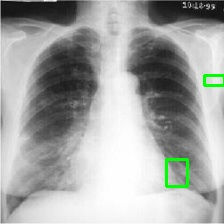
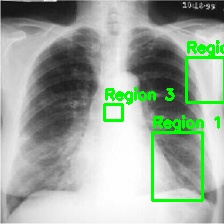
Files Removed and updated and Project Closed

Changed region(s): [[0.6562, 0.5, 1.0, 0.9062], [0.8125, 0.1562, 1.0, 0.4688], [0.4375, 0.375, 0.7812, 0.5625]]

diff --git a/WEB/app.py b/WEB/app.py
@@ -1,8 +1,6 @@
 import os
 import numpy as np
 import cv2
-from flask import Flask, render_template, request, redirect, url_for
-from werkzeug.utils import secure_filename
 import torch
 import torch.nn as nn
 from torchvision import transforms, models
@@ -10,20 +8,15 @@ from PIL import Image
 from pytorch_grad_cam import GradCAMPlusPlus
 from pytorch_grad_cam.utils.model_targets import ClassifierOutputTarget
 from pytorch_grad_cam.utils.image import show_cam_on_image
+from scipy.ndimage import gaussian_filter
+import gradio as gr
 
-UPLOAD_FOLDER = "static/uploads"
-GRADCAM_FOLDER = "static/gradcam"
-ALLOWED_EXTENSIONS = {"png", "jpg", "jpeg"}
-
-app = Flask(__name__)
-app.config['UPLOAD_FOLDER'] = UPLOAD_FOLDER
-os.makedirs(UPLOAD_FOLDER, exist_ok=True)
-os.makedirs(GRADCAM_FOLDER, exist_ok=True)
-
+# ==== CONFIG ====
 DEVICE = torch.device("cuda" if torch.cuda.is_available() else "cpu")
-MODEL_PATH = "Pneumo_model.pth"
+MODEL_PATH = "Pneumo_model.pth"  # place this file in the same folder
 CLASS_NAMES = ["NORMAL", "PNEUMONIA"]
 
+# ==== IMAGE TRANSFORMS ====
 transform = transforms.Compose([
     transforms.Resize((224, 224)),
     transforms.ToTensor(),
@@ -31,20 +24,15 @@ transform = transforms.Compose([
                          [0.229, 0.224, 0.225])
 ])
 
-print("[INFO] Loading model...")
+# ==== LOAD MODEL ====
 model = models.efficientnet_b0(pretrained=False)
 model.classifier[1] = nn.Linear(model.classifier[1].in_features, len(CLASS_NAMES))
 model.load_state_dict(torch.load(MODEL_PATH, map_location=DEVICE))
 model = model.to(DEVICE)
 model.eval()
-print("[INFO] Model loaded successfully!")
 
-def allowed_file(filename):
-    return '.' in filename and filename.rsplit('.', 1)[1].lower() in ALLOWED_EXTENSIONS
-
-
-def predict_image(image_path):
-    image = Image.open(image_path).convert('RGB')
+# ==== HELPER FUNCTIONS ====
+def predict_image(image: Image.Image):
     input_tensor = transform(image).unsqueeze(0).to(DEVICE)
     with torch.no_grad():
         outputs = model(input_tensor)
@@ -52,91 +40,74 @@ def predict_image(image_path):
         predicted_idx = torch.argmax(probs, dim=1).item()
     return CLASS_NAMES[predicted_idx], probs[0][predicted_idx].item() * 100, predicted_idx
 
-def generate_heatmap_and_boxes(image_path, target_class):
-    # Load and preprocess
-    img = Image.open(image_path).convert('RGB')
-    img_resized = img.resize((224, 224))
-    img_array = np.array(img_resized).astype(np.float32) / 255.0
-    input_tensor = transform(img).unsqueeze(0).to(DEVICE)
+def get_lung_mask(img_gray):
+    _, thresh = cv2.threshold(img_gray, 10, 255, cv2.THRESH_BINARY)
+    contours, _ = cv2.findContours(thresh, cv2.RETR_EXTERNAL, cv2.CHAIN_APPROX_SIMPLE)
+    mask = np.zeros_like(img_gray)
+    if contours:
+        largest = max(contours, key=cv2.contourArea)
+        cv2.drawContours(mask, [largest], -1, 255, -1)
+    return mask
 
+def generate_heatmap_and_boxes(image: Image.Image, target_class):
+    img_resized = image.resize((224, 224))
+    img_array = np.array(img_resized).astype(np.float32) / 255.0
+    input_tensor = transform(image).unsqueeze(0).to(DEVICE)
+
+    # Grad-CAM++
     target_layer = model.features[6]
     cam = GradCAMPlusPlus(model=model, target_layers=[target_layer])
     targets = [ClassifierOutputTarget(target_class)]
     grayscale_cam = cam(input_tensor=input_tensor, targets=targets)[0]
+    grayscale_cam = gaussian_filter(grayscale_cam, sigma=2)
 
+    # Lung mask
+    img_gray = cv2.cvtColor(np.array(img_resized), cv2.COLOR_RGB2GRAY)
+    lung_mask = get_lung_mask(img_gray)
+    grayscale_cam = np.where(lung_mask > 0, grayscale_cam, 0)
+
+    # Heatmap
     heatmap = show_cam_on_image(img_array, grayscale_cam, use_rgb=True)
-    gradcam_path = os.path.join(GRADCAM_FOLDER, "gradcam_" + os.path.basename(image_path))
-    cv2.imwrite(gradcam_path, cv2.cvtColor((heatmap * 255).astype(np.uint8), cv2.COLOR_RGB2BGR))
 
-    cam_threshold = (grayscale_cam * 255).astype(np.uint8)
-    _, binary_mask = cv2.threshold(cam_threshold, 180, 255, cv2.THRESH_BINARY)
-
+    # Adaptive threshold for regions
+    cam_uint8 = (grayscale_cam * 255).astype(np.uint8)
+    _, binary_mask = cv2.threshold(cam_uint8, 0, 255, cv2.THRESH_BINARY + cv2.THRESH_OTSU)
     contours, _ = cv2.findContours(binary_mask, cv2.RETR_EXTERNAL, cv2.CHAIN_APPROX_SIMPLE)
     img_bgr = cv2.cvtColor(np.array(img_resized), cv2.COLOR_RGB2BGR)
 
-    region_count = 0
-    for contour in contours:
+    # Draw top 3 regions
+    contours = sorted(contours, key=cv2.contourArea, reverse=True)[:3]
+    for i, contour in enumerate(contours):
         area = cv2.contourArea(contour)
-        if area > 50:  # Ignore tiny noise
+        if area > 100:
             x, y, w, h = cv2.boundingRect(contour)
             cv2.rectangle(img_bgr, (x, y), (x + w, y + h), (0, 255, 0), 2)
-            region_count += 1
+            cv2.putText(img_bgr, f"Region {i+1}", (x, y-5),
+                        cv2.FONT_HERSHEY_SIMPLEX, 0.5, (0, 255, 0), 2)
 
-    print(f"[INFO] Detected {region_count} affected regions")
+    return heatmap, img_bgr
 
-    box_path = os.path.join(GRADCAM_FOLDER, "box_" + os.path.basename(image_path))
-    cv2.imwrite(box_path, img_bgr)
+# ==== GRADIO INTERFACE ====
+def process_image(image: Image.Image):
+    label, confidence, pred_idx = predict_image(image)
+    if label == "PNEUMONIA":
+        heatmap, box_image = generate_heatmap_and_boxes(image, pred_idx)
+        return label, f"{confidence:.2f}%", heatmap, box_image
+    else:
+        return label, f"{confidence:.2f}%", None, None
 
-    return gradcam_path, box_path
-
-@app.route("/", methods=["GET", "POST"])
-def index():
-    if request.method == "POST":
-        if "file" not in request.files:
-            return redirect(request.url)
-        file = request.files["file"]
-        if file.filename == "":
-            return redirect(request.url)
-
-        if file and allowed_file(file.filename):
-            filename = secure_filename(file.filename)
-            file_path = os.path.join(app.config['UPLOAD_FOLDER'], filename)
-            file.save(file_path)
-
-            label, confidence, pred_idx = predict_image(file_path)
-
-            gradcam_filename = None
-            box_filename = None
-
-            if label == "PNEUMONIA":
-                gradcam_path, box_path = generate_heatmap_and_boxes(file_path, target_class=pred_idx)
-                gradcam_filename = os.path.basename(gradcam_path)
-                box_filename = os.path.basename(box_path)
-
-            return redirect(url_for("result",
-                                    filename=filename,
-                                    label=label,
-                                    confidence=confidence,
-                                    gradcam=gradcam_filename,
-                                    box=box_filename))
-    return render_template("index.html")
-
-
-@app.route("/result")
-def result():
-    filename = request.args.get("filename")
-    label = request.args.get("label")
-    confidence = request.args.get("confidence")
-    gradcam = request.args.get("gradcam")
-    box = request.args.get("box")
-
-    return render_template("result.html",
-                           filename=filename,
-                           label=label,
-                           confidence=confidence,
-                           gradcam=gradcam,
-                           box=box)
-
+iface = gr.Interface(
+    fn=process_image,
+    inputs=gr.Image(type="pil"),
+    outputs=[
+        gr.Textbox(label="Prediction"),
+        gr.Textbox(label="Confidence"),
+        gr.Image(label="Grad-CAM Heatmap"),
+        gr.Image(label="Detected Regions")
+    ],
+    title="PneumoAI",
+    description="Upload a chest X-ray image. PneumoAI predicts pneumonia and highlights affected regions."
+)
 
 if __name__ == "__main__":
-    app.run(debug=True)
+    iface.launch()
